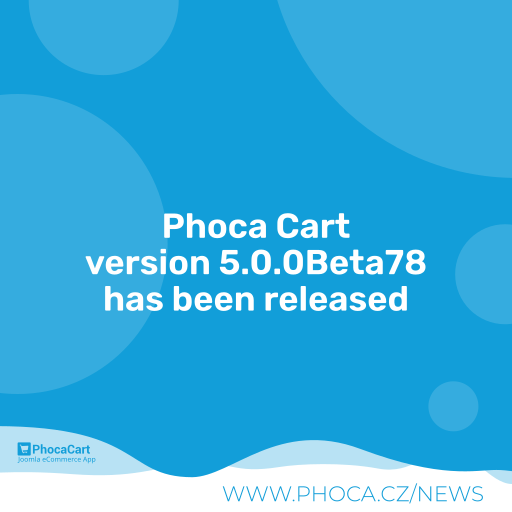
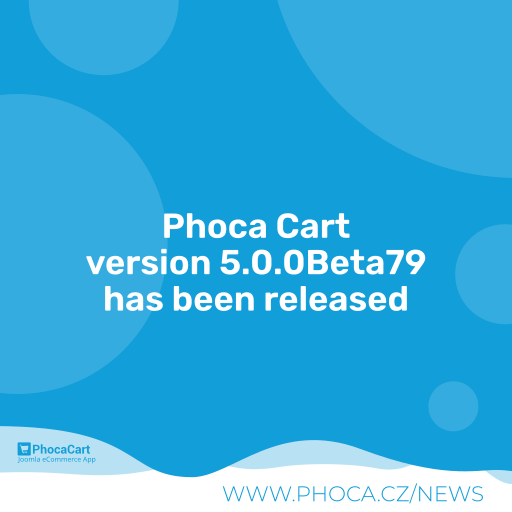
5.0.0Beta79

Changed region(s): [[0.1562, 0.5, 0.8438, 0.5312]]

diff --git a/media/css/spec/yootheme.css b/media/css/spec/yootheme.css
@@ -193,3 +193,8 @@ img {
 .ph-items .ph-cb {
     display: none;
 }
+
+
+.pc-modal .uk-modal-dialog.uk-width-auto .uk-modal-body iframe {
+    height: 65vh;
+}

diff --git a/site/layouts/popup_container_iframe.php b/site/layouts/popup_container_iframe.php
@@ -1,43 +1,44 @@
 <?php
 /* @package Joomla
  * @copyright Copyright (C) Open Source Matters. All rights reserved.
- * @license http://www.gnu.org/copyleft/gpl.html GNU/GPL, see LICENSE.php
+ * @license   http://www.gnu.org/copyleft/gpl.html GNU/GPL, see LICENSE.php
  * @extension Phoca Extension
  * @copyright Copyright (C) Jan Pavelka www.phoca.cz
- * @license http://www.gnu.org/copyleft/gpl.html GNU/GPL
+ * @license   http://www.gnu.org/copyleft/gpl.html GNU/GPL
  */
 defined('_JEXEC') or die();
+
 use Joomla\CMS\Language\Text;
 
-$d          = $displayData;
-$s          = $d['s'];
-$d['close'] = '<button type="button" class="'.$d['s']['c']['modal-btn-close'].'"'.$d['s']['a']['modal-btn-close'].' aria-label="'.Text::_('COM_PHOCACART_CLOSE').'" '.$d['s']['a']['data-bs-dismiss-modal'].' ></button>';
-$modalClass = isset($d['modal-class']) ? $d['modal-class'] : 'modal-lg';
-
+$d                = $displayData;
+$s                = $d['s'];
+$d['close']       = '<button type="button" class="' . $d['s']['c']['modal-btn-close'] . '"' . $d['s']['a']['modal-btn-close'] . ' aria-label="' . Text::_('COM_PHOCACART_CLOSE') . '" ' . $d['s']['a']['data-bs-dismiss-modal'] . ' ></button>';
+$modalClass       = isset($d['modal-class']) ? $d['modal-class'] : 'modal-lg';// Call the style class and find the class per key
+$modalCustomClass = isset($d['modal-custom-class']) ? $d['modal-custom-class'] : '';// Writes directly the class
 
 ?>
-<div id="<?php echo $d['id'] ?>" class="<?php echo $s['c']['modal.zoom'] ?>"  role="dialog" aria-labelledby="myModalLabel" aria-hidden="true" style="display:none">
-    <div class="<?php echo $s['c']['modal-dialog'] ?> <?php echo $s['c'][$modalClass] ?>">
-      <div class="<?php echo $s['c']['modal-content'] ?>">
-        <div class="<?php echo $s['c']['modal-header'] ?>">
-		  <h5 class="<?php echo $d['s']['c']['modal-title'] ?>"><?php echo PhocacartRenderIcon::icon($d['icon'], '', ' ') .  $d['title'];  ?></h5>
-            <?php echo $d['close'] ?>
+<div id="<?php echo $d['id'] ?>" class="<?php echo $s['c']['modal.zoom'] ?>" <?php echo $s['a']['modal'] ?> role="dialog" aria-labelledby="myModalLabel" aria-hidden="true" style="display:none">
+    <div class="<?php echo $s['c']['modal-dialog'] ?> <?php echo $s['c'][$modalClass] ?> <?php echo $modalCustomClass ?>">
+        <div class="<?php echo $s['c']['modal-content'] ?>">
+            <div class="<?php echo $s['c']['modal-header'] ?>">
+                <h5 class="<?php echo $d['s']['c']['modal-title'] ?>"><?php echo PhocacartRenderIcon::icon($d['icon'], '', ' ') . $d['title']; ?></h5>
+                <?php echo $d['close'] ?>
+            </div>
+            <div class="<?php echo $s['c']['modal-body'] ?>">
+                <?php
+                /* We paste the iframe dynamically per Javascript so it does not include previous instance at start
+                    <iframe frameborder="0"></iframe>
+                    administrator/components/com_phocacart/libraries/phocacart/render/js.php
+                    public static function renderAjaxAskAQuestion($options = array()) {
+                 */
+                ?>
+            </div>
+            <div class="<?php echo $s['c']['modal-footer'] ?>"><?php
+                if (isset($d['closebutton']) && $d['closebutton'] == 1) {
+                    echo '<button type="button" class="' . $s['c']['btn.btn-secondary'] . ' ' . $s['c']['modal-common-close'] . '" ' . $d['s']['a']['data-bs-dismiss-modal'] . ' >' . Text::_('COM_PHOCACART_CLOSE') . '</button>';
+                }
+                ?></div>
         </div>
-        <div class="<?php echo $s['c']['modal-body'] ?>">
-			<?php
-            /* We paste the iframe dynamically per Javascript so it does not include previous instance at start
-                <iframe frameborder="0"></iframe>
-                administrator/components/com_phocacart/libraries/phocacart/render/js.php
-                public static function renderAjaxAskAQuestion($options = array()) {
-             */
-			?>
-        </div>
-		<div class="<?php echo $s['c']['modal-footer'] ?>"><?php
-		    if (isset($d['closebutton']) && $d['closebutton'] == 1) {
-              echo '<button type="button" class="'.$s['c']['btn.btn-secondary'].'" '.$d['s']['a']['data-bs-dismiss-modal'].' >'.Text::_('COM_PHOCACART_CLOSE').'</button>';
-		    }
-		?></div>
-	   </div>
     </div>
 </div>
 

diff --git a/admin/libraries/phocacart/render/style.php b/admin/libraries/phocacart/render/style.php
@@ -236,6 +236,7 @@ class PhocacartRenderStyle
 
 
         $s['c']['dropdown']             = 'dropdown';
+        $s['c']['modal']                = 'modal';
         $s['c']['dropdown-toggle']      = 'dropdown-toggle';
         $s['c']['dropdown-menu']        = 'dropdown-menu';
         $s['c']['dropdown-item']        = 'dropdown-item';
@@ -254,6 +255,7 @@ class PhocacartRenderStyle
         $s['a']['alert']                 = ' role="alert"';
         $s['a']['alert-close']           = ' data-bs-dismiss="alert"';
         $s['a']['dropdown']              = '';
+        $s['a']['modal']                 = '';
 
         $s['a']['lazyload']              = ' loading="lazy"';
 
@@ -383,7 +385,7 @@ class PhocacartRenderStyle
                 $s['c']['modal-body']         = 'uk-modal-body';
                 $s['c']['modal-footer']       = 'uk-modal-footer';
                 $s['c']['modal-lg']           = 'uk-modal-lg';// not exist
-                $s['c']['modal-xl']           = 'uk-modal-xl';// not exist
+                $s['c']['modal-xl']           = 'uk-width-auto';// not exist
                 $s['c']['modal-sm']           = 'uk-modal-sm';// not exist
 
                 $s['c']['controls']                      = 'uk-form-controls';
@@ -428,6 +430,7 @@ class PhocacartRenderStyle
                 $s['c']['dropdown-toggle']      = 'uk-dropdown-toggle';
                 $s['c']['dropdown-menu']        = 'uk-dropdown';
                 $s['c']['dropdown-item']        = 'uk-dropdown-item';
+                $s['c']['modal']                = 'uk-modal';
 
                 //$s['c']['px-3']                 = 'px-3';
                 //$s['c']['py-3']                 = 'py-3';
@@ -446,6 +449,7 @@ class PhocacartRenderStyle
                 $s['a']['alert-close']           = ' uk-close';
                 $s['a']['dropdown']              = ' uk-dropdown';
                 //$s['a']['dropdown']               = 'uk-dropdown="mode: click"';
+                $s['a']['modal']                = 'uk-modal';
 
             break;
 

diff --git a/admin/libraries/phocacart/render/js.php b/admin/libraries/phocacart/render/js.php
@@ -1277,6 +1277,9 @@ final class PhocacartRenderJs
 
     public static function renderModalCommonIframeWindow($options = []) {
 
+        $params         = PhocacartUtils::getComponentParameters();
+        $p['theme']     = $params->get('theme', 'bs5');
+
         $s[] = ' jQuery(document).ready(function(){';
         $s[] = '	jQuery(document).on("click", "a.phModalContainerCommonIframeButton", function (e) {';
         $s[] = '      var src = jQuery(this).attr("data-src");';
@@ -1286,7 +1289,13 @@ final class PhocacartRenderJs
         $s[] = '      var idIframe = "#" + id + " iframe";';
 
         // Loaded dynamically to not have previous src in iframe, see: components/com_phocacart/layouts/popup_container_iframe.php
-        $s[] = '      var idBody = "#" + id + " .modal-body";';
+
+        if ($p['theme'] != 'uikit') {
+            $s[] = '      var idBody = "#" + id + " .modal-body";';
+        } else {
+            $s[] = '      var idBody = "#" + id + " .uk-modal-body";';
+        }
+
         $iframe = '      jQuery(idBody).html(\'<iframe frameborder="0"';
 
         if(isset($options['allow_geolocation']) && $options['allow_geolocation']) {

diff --git a/README.MD b/README.MD
@@ -132,7 +132,7 @@ Phoca Cart is e-commerce extension - powerful shopping cart for Joomla! CMS. Pho
 
 ## Version (Joomla! 5.x)
 
-5.0.0Beta78
+5.0.0Beta79
 
 
 
